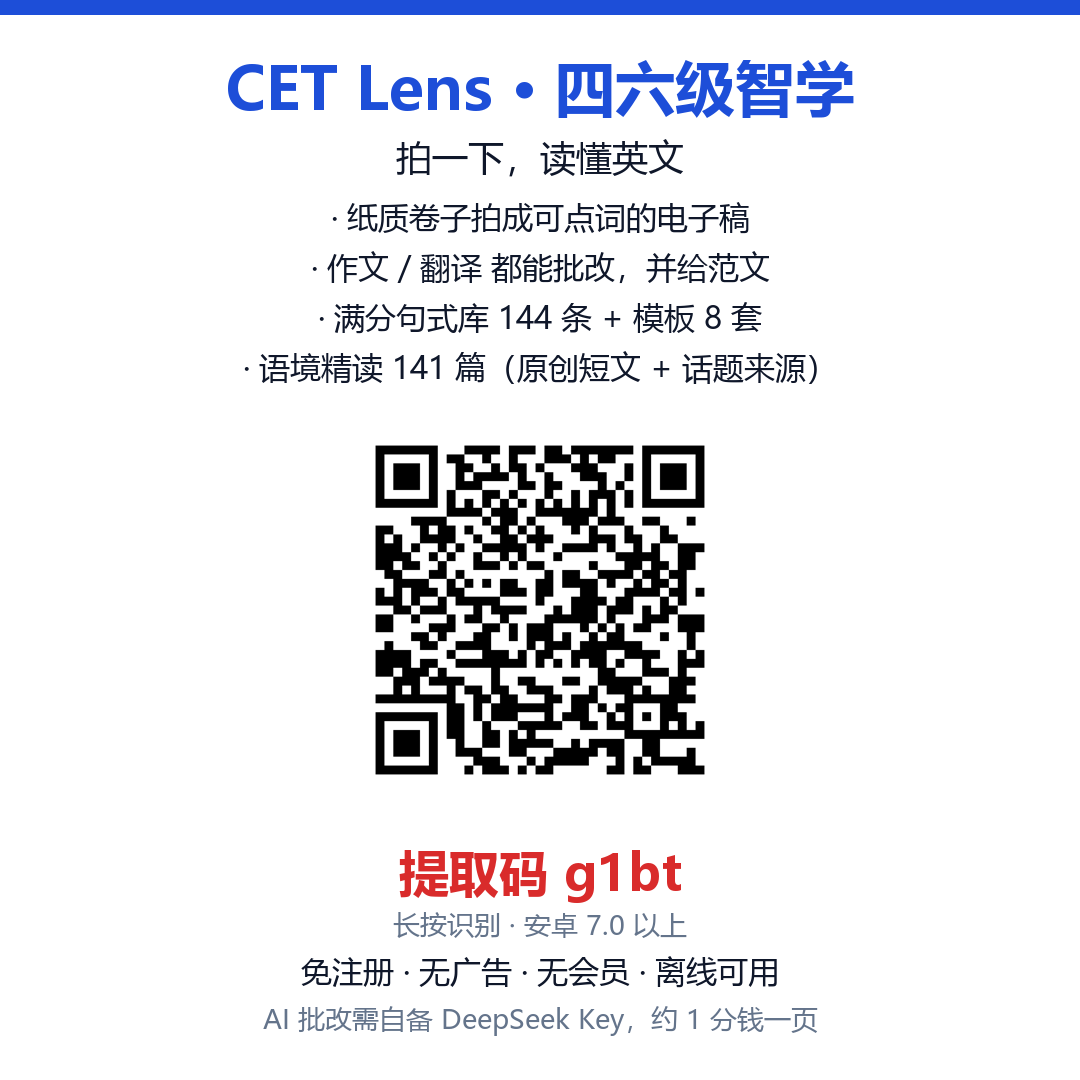
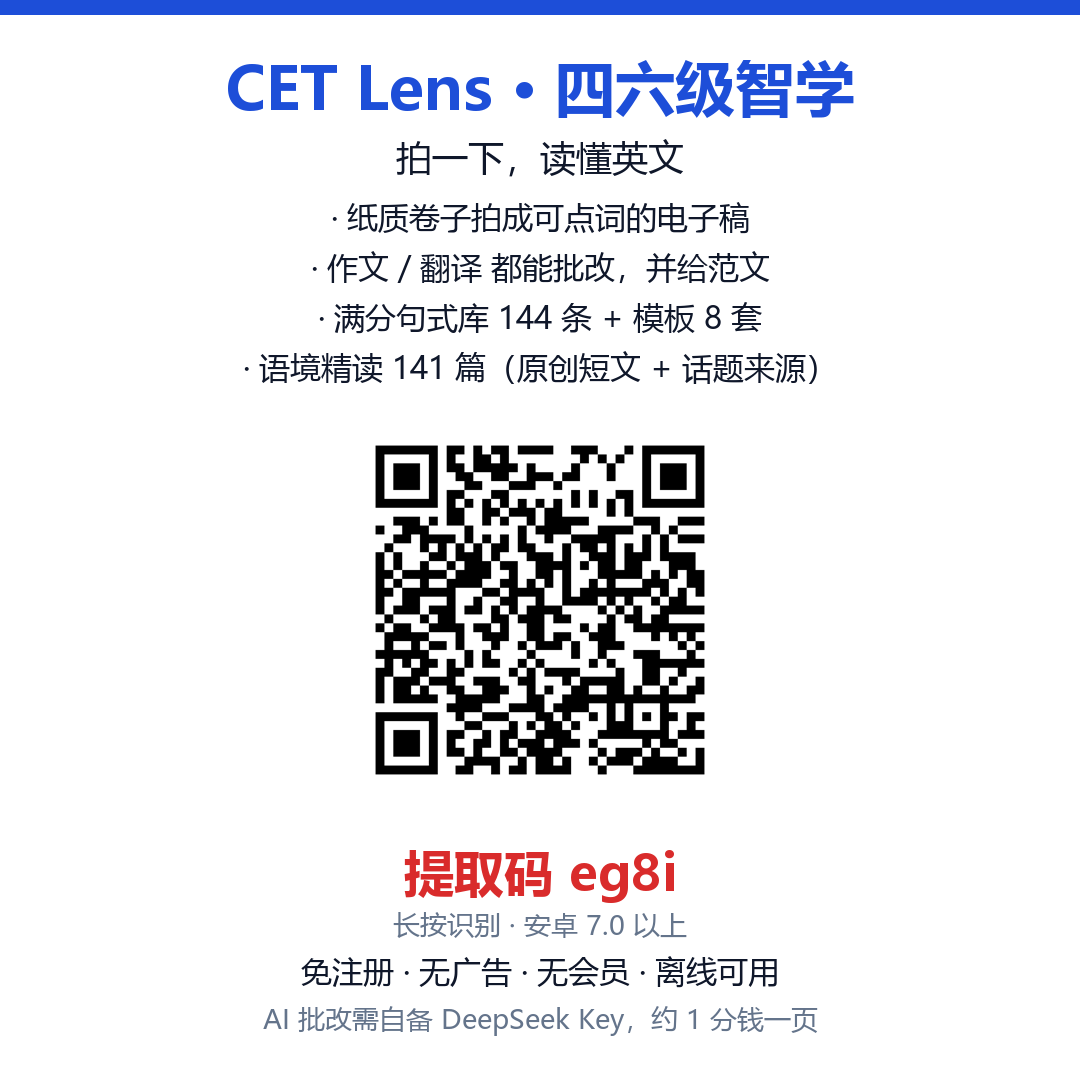
蓝奏云换包 1.2.5：更新链接 i3sCs4g3lizi 与提取码 eg8i，重做二维码和推广图

Changed region(s): [[0.3361, 0.3972, 0.6722, 0.7333], [0.3667, 0.7639, 0.6417, 0.8556]]

diff --git a/docs/index.html b/docs/index.html
@@ -88,8 +88,8 @@
       <img src="qr-lanzou.png" alt="蓝奏云二维码" width="92" height="92" style="border-radius:8px;flex:0 0 auto">
       <div>
         <b>蓝奏云</b>
-        <p style="margin-top:4px">扫码或点链接下载，<b>提取码 g1bt</b></p>
-        <p style="margin-top:6px"><a href="https://wwazc.lanzoum.com/i6P5D4g2h06b" style="color:#2563eb">wwazc.lanzoum.com/i6P5D4g2h06b</a></p>
+        <p style="margin-top:4px">扫码或点链接下载，<b>提取码 eg8i</b></p>
+        <p style="margin-top:6px"><a href="https://wwazc.lanzoum.com/i3sCs4g3lizi" style="color:#2563eb">wwazc.lanzoum.com/i3sCs4g3lizi</a></p>
       </div>
     </div>
     <div class="card">
